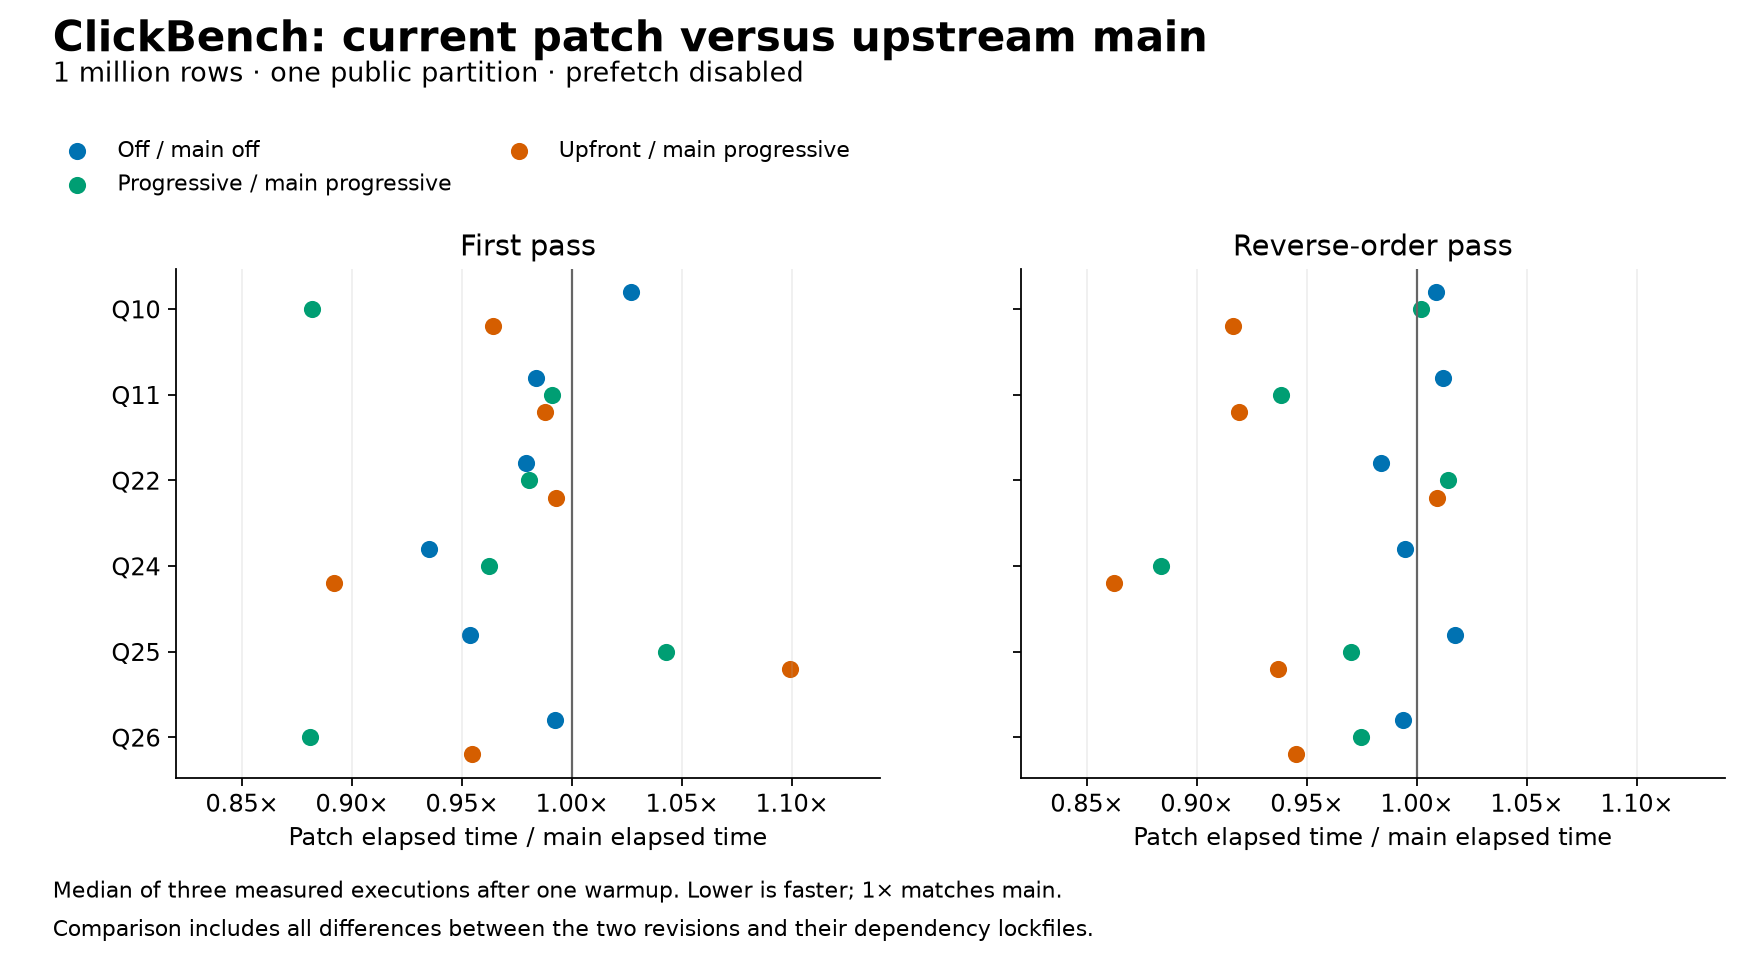
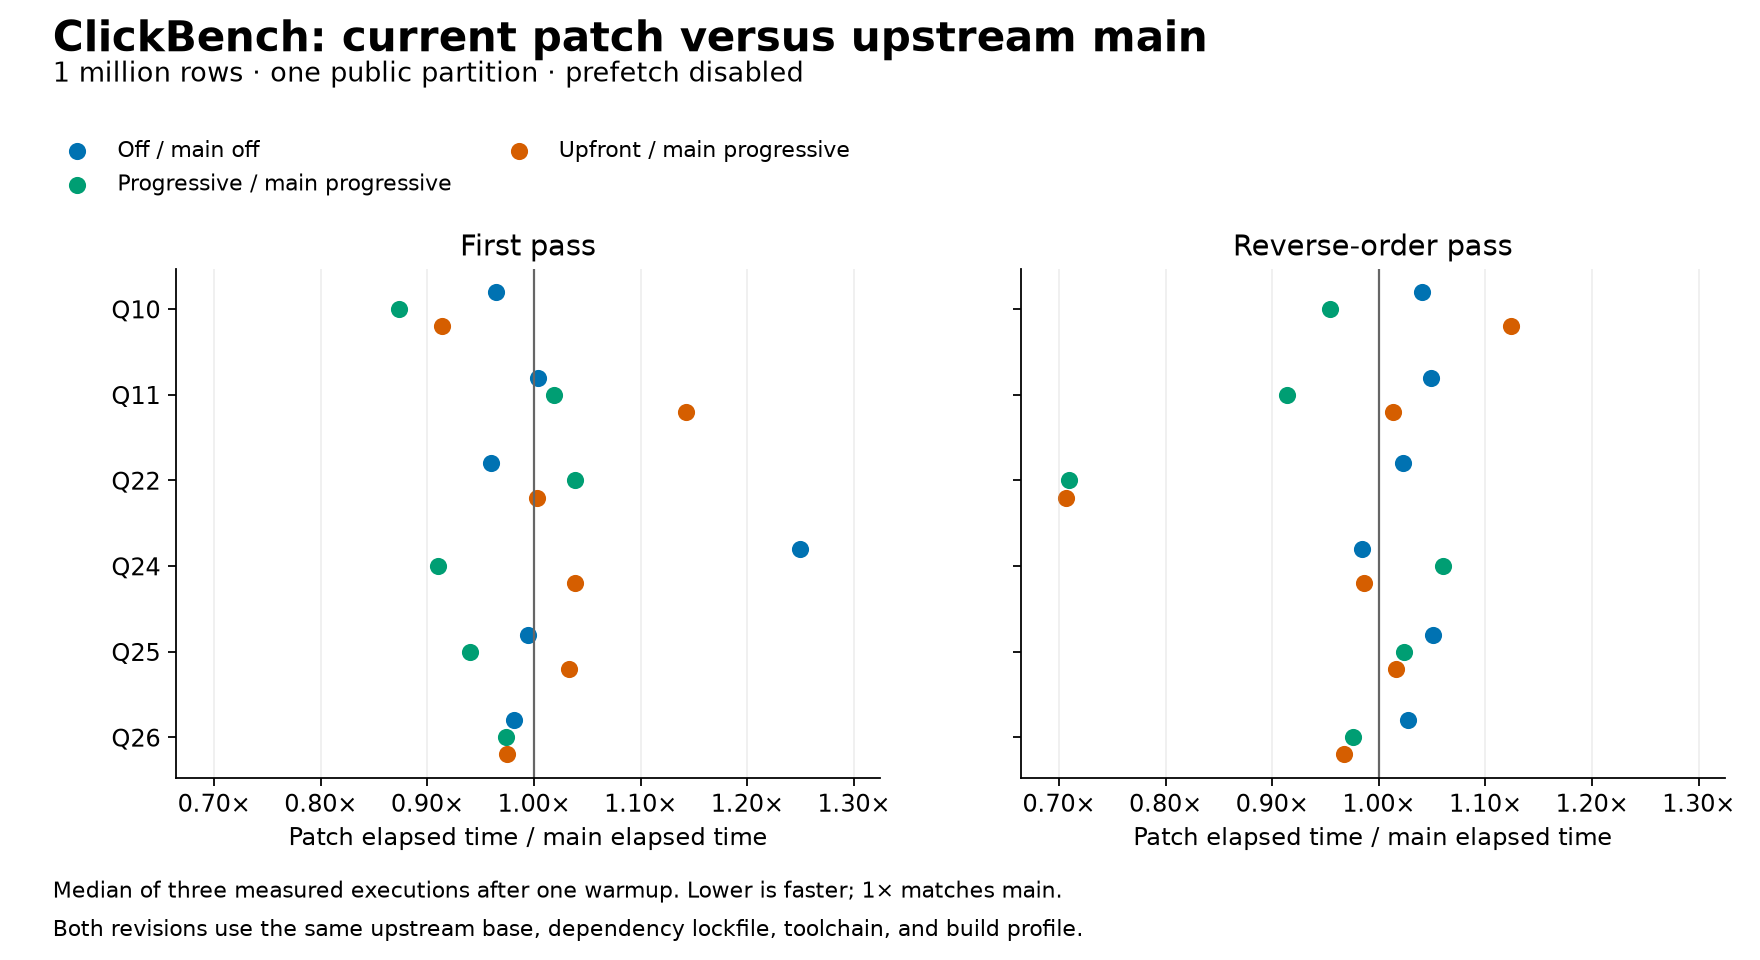
docs: refresh Parquet I/O benchmarks after upstream rebase

diff --git a/datafusion/datasource-parquet/IO_POLICY_BENCHMARK.md b/datafusion/datasource-parquet/IO_POLICY_BENCHMARK.md
@@ -25,11 +25,11 @@ with 10 CPU cores and 24 GiB RAM.
 
 | Revision                                                                                                          | DataFusion | Arrow/Parquet |
 | ----------------------------------------------------------------------------------------------------------------- | ---------- | ------------- |
-| [Upstream main `40488988a`](https://github.com/apache/datafusion/commit/40488988ad596c9b093ad60e1453430d803ce33c) | 55.0.0     | 59.3.0        |
-| [Current patch implementation `8411b35ba`](https://github.com/peterxcli/datafusion/commit/8411b35ba)              | 55.0.0     | 59.2.0        |
+| [Upstream main `408696966`](https://github.com/apache/datafusion/commit/4086969669f96c0d5de03f442f2dba1869d2ee80) | 55.0.0     | 59.3.0        |
+| [Current patch implementation `801cb0e52`](https://github.com/peterxcli/datafusion/commit/801cb0e52)              | 55.0.0     | 59.3.0        |
 
-Each revision uses its checked-in dependency lockfile. The comparison includes
-changes elsewhere in main and differences in dependency versions.
+The patch is rebased onto the measured upstream commit. Both revisions use
+the same dependency lockfile, with Arrow/Parquet 59.3.0.
 
 ## Synthetic Parquet scans
 
@@ -47,12 +47,18 @@ including the indexed, clustered cases: 28.9 MB for wide output and 13.2 MB for
 narrow output. All patch configurations, including prefetch, requested the same
 bytes in this fixture.
 
-**Elapsed-time comparisons were unstable across passes.** For example, main's
-progressive scan of indexed, clustered narrow output measured 273.3 ms in pass 1
-and 26.4 ms in pass 2. Patch progressive measured 27.8 and 26.5 ms. The
-pass-1 timing gap therefore does not establish a stable patch speedup. Desktop
-processes were active during the run; this measurement cannot isolate their
-contribution to the variation.
+With prefetch off, indexed clustered wide output took **41.3/41.0 ms** with
+upfront reads versus **48.2/45.1 ms** on main progressive across the two passes
+(9–14% less elapsed time). Narrow output took **20.1/20.1 ms** versus
+**25.5/23.7 ms** (15–21% less).
+
+Gains depended on the workload. Random wide output without indexes changed
+direction: 1.2% faster in pass 1 and 2.2% slower in pass 2. Main's clustered
+wide scan without indexes also moved from 361.1 to 305.8 ms between passes,
+while patch upfront measured 298.6 and 297.1 ms. These warm desktop timings
+retain variation that two reversed passes cannot eliminate. Patch progressive
+was also 3.4%/9.7% slower than main progressive on indexed random wide output;
+this control warrants profiling.
 
 The [benchmark example](examples/io_policy.rs) uses four Snappy Parquet files,
 each containing 256 row groups of 131,072 rows and eight Int64 columns:
@@ -86,27 +92,27 @@ artificial I/O or downstream delay. Other desktop activity was uncontrolled.
 
 | Workload                      | Main off | Patch off | Patch off +PF | Main progressive | Patch progressive | Patch progressive +PF | Patch upfront | Patch upfront +PF |
 | ----------------------------- | -------: | --------: | ------------: | ---------------: | ----------------: | --------------------: | ------------: | ----------------: |
-| random, no indexes, wide      |   1607.1 |    2496.6 |        2148.2 |           1625.1 |            2684.2 |                2258.6 |        2511.7 |            2082.2 |
-| random, no indexes, narrow    |    379.0 |     388.4 |         352.2 |            384.2 |             386.5 |                 346.6 |         380.9 |             348.0 |
-| random, indexes, wide         |   1928.1 |    1478.8 |        1384.9 |           3096.5 |            1728.4 |                1432.1 |        1532.2 |            1427.5 |
-| random, indexes, narrow       |    755.0 |     357.2 |         336.9 |            946.1 |             376.8 |                 334.8 |         357.3 |             332.6 |
-| clustered, no indexes, wide   |   2453.4 |    1566.2 |        1489.5 |            832.4 |             305.1 |                 293.1 |         295.7 |             317.6 |
-| clustered, no indexes, narrow |    781.1 |     378.6 |         350.2 |            687.1 |             226.0 |                 222.6 |         224.7 |             225.8 |
-| clustered, indexes, wide      |     58.7 |      54.8 |          44.9 |             64.9 |              55.2 |                  40.6 |          49.2 |              40.3 |
-| clustered, indexes, narrow    |    154.4 |      22.7 |          21.4 |            273.3 |              27.8 |                  25.7 |          22.6 |              25.7 |
+| random, no indexes, wide      |   1521.5 |    1506.8 |        1398.6 |           1543.6 |            1542.5 |                1414.5 |        1524.4 |            1418.9 |
+| random, no indexes, narrow    |    363.1 |     357.0 |         330.1 |            356.3 |             360.0 |                 327.0 |         352.4 |             325.5 |
+| random, indexes, wide         |   1539.8 |    1512.4 |        1400.2 |           1765.3 |            1825.8 |                1431.5 |        1550.0 |            1547.5 |
+| random, indexes, narrow       |    366.4 |     361.7 |         335.7 |            402.4 |             380.2 |                 334.2 |         361.8 |             336.2 |
+| clustered, no indexes, wide   |   1551.3 |    1504.2 |        1400.6 |            361.1 |             310.7 |                 299.4 |         298.6 |             300.0 |
+| clustered, no indexes, narrow |    358.3 |     369.9 |         319.8 |            218.9 |             209.5 |                 204.7 |         204.4 |             206.4 |
+| clustered, indexes, wide      |     45.6 |      43.3 |          35.7 |             48.2 |              46.0 |                  34.7 |          41.3 |              34.8 |
+| clustered, indexes, narrow    |     20.9 |      20.0 |          17.7 |             25.5 |              24.1 |                  22.1 |          20.1 |              22.0 |
 
 ### Pass 2
 
 | Workload                      | Main off | Patch off | Patch off +PF | Main progressive | Patch progressive | Patch progressive +PF | Patch upfront | Patch upfront +PF |
 | ----------------------------- | -------: | --------: | ------------: | ---------------: | ----------------: | --------------------: | ------------: | ----------------: |
-| random, no indexes, wide      |   1629.0 |    1574.1 |        1429.3 |           1623.3 |            1550.0 |                1553.2 |        1639.8 |            1457.3 |
-| random, no indexes, narrow    |    380.9 |     380.2 |         340.2 |            379.3 |             373.8 |                 325.0 |         366.7 |             343.3 |
-| random, indexes, wide         |   1543.6 |    1568.6 |        1448.3 |           1754.4 |            1813.3 |                1495.8 |        1617.8 |            1478.8 |
-| random, indexes, narrow       |    441.4 |     378.3 |         346.0 |            404.6 |             386.7 |                 349.8 |         382.4 |             343.9 |
-| clustered, no indexes, wide   |   1696.9 |    1555.7 |        1494.5 |            350.0 |             320.6 |                 314.6 |         312.3 |             308.0 |
-| clustered, no indexes, narrow |    371.7 |     384.2 |         349.8 |            220.4 |             219.3 |                 224.5 |         221.3 |             220.6 |
-| clustered, indexes, wide      |     48.5 |      45.8 |          38.2 |             49.7 |              49.5 |                  38.4 |          46.3 |              38.1 |
-| clustered, indexes, narrow    |     21.1 |      22.1 |          19.1 |             26.4 |              26.5 |                  24.1 |          22.2 |              24.0 |
+| random, no indexes, wide      |   1527.1 |    1499.0 |        1392.5 |           1559.8 |            1520.8 |                1469.7 |        1594.3 |            1408.3 |
+| random, no indexes, narrow    |    355.4 |     355.1 |         329.0 |            357.1 |             355.3 |                 323.4 |         351.5 |             324.4 |
+| random, indexes, wide         |   1504.0 |    1495.0 |        1400.6 |           1726.7 |            1894.5 |                1424.5 |        1557.1 |            1429.4 |
+| random, indexes, narrow       |    359.6 |     365.1 |         337.1 |            378.2 |             381.6 |                 334.3 |         362.3 |             333.0 |
+| clustered, no indexes, wide   |   1497.1 |    1502.2 |        1398.0 |            305.8 |             305.9 |                 294.3 |         297.1 |             294.1 |
+| clustered, no indexes, narrow |    345.4 |     343.4 |         320.5 |            208.1 |             209.7 |                 206.2 |         204.0 |             206.4 |
+| clustered, indexes, wide      |     43.1 |      43.2 |          35.8 |             45.1 |              46.2 |                  34.3 |          41.0 |              34.0 |
+| clustered, indexes, narrow    |     19.7 |      20.3 |          19.1 |             23.7 |              24.2 |                  21.9 |          20.1 |              22.7 |
 
 </details>
 
@@ -143,13 +149,15 @@ For narrow output, peak prefetch reservations ranged from 16,587 to 1,184,818 by
 
 ## ClickBench
 
-Upfront Q24 measured 8.92 and 8.75 ms, versus main progressive's 10.00 and
-10.15 ms. Q25 changed direction between passes: 7.42 versus 6.76 ms in pass 1,
-and 6.64 versus 7.09 ms in pass 2. The comparison shows query-specific results
-and variation between passes.
+Upfront reads were slower than main with pushdown off for **all six queries
+in both passes**. Compared with main progressive, Q26 improved in both passes:
+**10.73/9.76 ms** versus **11.00/10.09 ms**. Q10 and Q24 changed direction
+between passes; Q11 and Q25 were slower in both passes.
 
-Upfront medians exceeded main with pushdown off for Q10, Q22, Q24, Q25, and Q26
-in both passes.
+Q22 illustrates the timing variation: main progressive measured 107.18 and
+152.95 ms, while patch upfront measured 107.46 and 108.08 ms. The apparent
+second-pass gain therefore needs further measurement. Fewer reader calls in
+the synthetic fixture do not establish a general query-speed improvement.
 
 ![ClickBench elapsed-time ratios for the current patch against main.](benchmark-charts/parquet-main-clickbench.png)
 
@@ -173,29 +181,28 @@ counts; result values were not independently compared.
 
 | Query | Main off | Patch off | Main progressive | Patch progressive | Patch upfront |
 | ----- | -------: | --------: | ---------------: | ----------------: | ------------: |
-| Q10   |     5.06 |      5.19 |             5.79 |              5.11 |          5.59 |
-| Q11   |     4.97 |      4.89 |             5.81 |              5.76 |          5.74 |
-| Q22   |    93.88 |     91.93 |           110.93 |            108.74 |        110.14 |
-| Q24   |     8.11 |      7.59 |            10.00 |              9.62 |          8.92 |
-| Q25   |     5.11 |      4.87 |             6.76 |              7.05 |          7.42 |
-| Q26   |     8.36 |      8.29 |            12.63 |             11.12 |         12.05 |
+| Q10   |     4.64 |      4.48 |             5.79 |              5.05 |          5.29 |
+| Q11   |     4.93 |      4.95 |             5.51 |              5.61 |          6.29 |
+| Q22   |    88.79 |     85.20 |           107.18 |            111.30 |        107.46 |
+| Q24   |     7.55 |      9.43 |            10.80 |              9.83 |         11.21 |
+| Q25   |     5.16 |      5.12 |             7.33 |              6.89 |          7.57 |
+| Q26   |     7.67 |      7.53 |            11.00 |             10.71 |         10.72 |
 
 ### Pass 2
 
 | Query | Main off | Patch off | Main progressive | Patch progressive | Patch upfront |
 | ----- | -------: | --------: | ---------------: | ----------------: | ------------: |
-| Q10   |     4.21 |      4.25 |             5.05 |              5.06 |          4.63 |
-| Q11   |     5.13 |      5.19 |             5.48 |              5.15 |          5.04 |
-| Q22   |    84.72 |     83.33 |           102.40 |            103.86 |        103.36 |
-| Q24   |     7.18 |      7.15 |            10.15 |              8.97 |          8.75 |
-| Q25   |     4.85 |      4.93 |             7.09 |              6.87 |          6.64 |
-| Q26   |     7.42 |      7.37 |            10.19 |              9.93 |          9.63 |
+| Q10   |     3.93 |      4.09 |             5.05 |              4.82 |          5.67 |
+| Q11   |     4.48 |      4.70 |             5.73 |              5.24 |          5.81 |
+| Q22   |    84.01 |     85.92 |           152.95 |            108.44 |        108.08 |
+| Q24   |     7.22 |      7.11 |             8.80 |              9.34 |          8.68 |
+| Q25   |     4.82 |      5.06 |             6.85 |              7.01 |          6.97 |
+| Q26   |     7.25 |      7.45 |            10.09 |              9.85 |          9.76 |
 
 </details>
 
 These local samples do not establish full-dataset, remote-storage, or Spark
-end-to-end performance. Timing differences include all changes between the two
-revisions; broader measurements are needed before changing defaults.
+end-to-end performance. Broader measurements are needed before changing defaults.
 
 ## Reproduce
 
